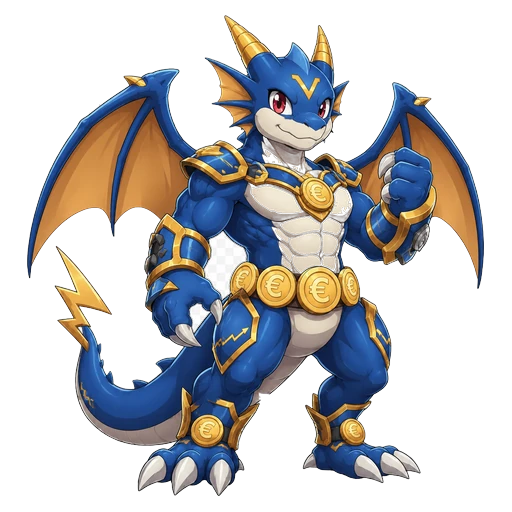
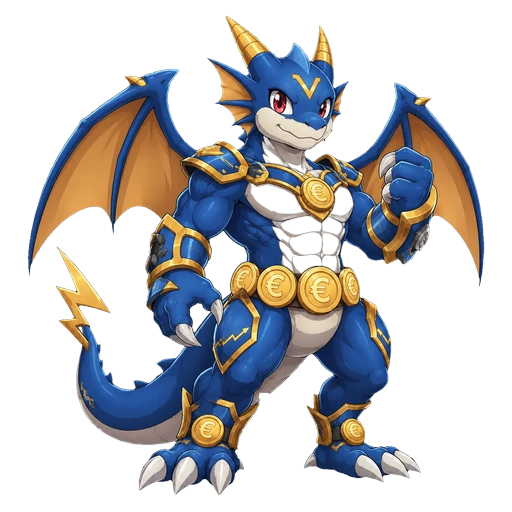
fix(brand): erosion de-fringe kills white residue + cache-bust mascot URLs
User still saw small white background residue on the mascots (looked unfinished)
AND the changes weren't showing because the WebPs keep the same filenames, so
browsers/CDN served the stale cached cutouts.

- Re-cut all 12 mascots: rembg → fill holes → ERODE the alpha mask 3px (cuts the
  anti-aliased white-fringe ring that the source-RGB left) → re-soften 1px. No
  white edge on a pure-black test.
- Cache-bust: MascotCreature.assetPath + LandingMascotShowcase now append ?v=3
  to the asset URL (MASCOT_ASSET_VER constant) so the fresh cutouts actually load
  instead of the cached ones.

Note: the landing hero already shows correctly server-side (hero-v2, no
PlatedMascot) — that one was pure browser cache; a hard-refresh fixes it.

tsc green.

diff --git a/src/components/voltix/MascotCreature.tsx b/src/components/voltix/MascotCreature.tsx
@@ -41,9 +41,13 @@ interface Props {
   animate?: boolean
 }
 
-/** Where the optional raster asset lives for a given evo. */
+/** Where the optional raster asset lives for a given evo.
+ *  `?v=` is a cache-buster — the mascot WebPs were re-cut (clean alpha, no
+ *  white fringe) but keep the same filenames, so browsers/CDN would serve the
+ *  stale cached version without it. Bump the number when the art changes. */
+const MASCOT_ASSET_VER = '3'
 function assetPath(gender: MascotGender, evo: number): string {
-  return `/mascot/${gender}/${evo}.webp`
+  return `/mascot/${gender}/${evo}.webp?v=${MASCOT_ASSET_VER}`
 }
 
 /**

diff --git a/src/components/landing/LandingMascotShowcase.tsx b/src/components/landing/LandingMascotShowcase.tsx
@@ -53,7 +53,7 @@ function EvoRow({
             <div key={evo} className="text-center">
               <div className="relative w-full aspect-square bg-gradient-to-b from-white/5 to-transparent rounded-xl flex items-center justify-center border border-white/5 overflow-hidden mb-1.5">
                 <Image
-                  src={`/mascot/${gender}/${evo}.webp`}
+                  src={`/mascot/${gender}/${evo}.webp?v=3`}
                   alt={t('landing.mascot.evo_alt', { name, evo, label })}
                   width={96}
                   height={96}
